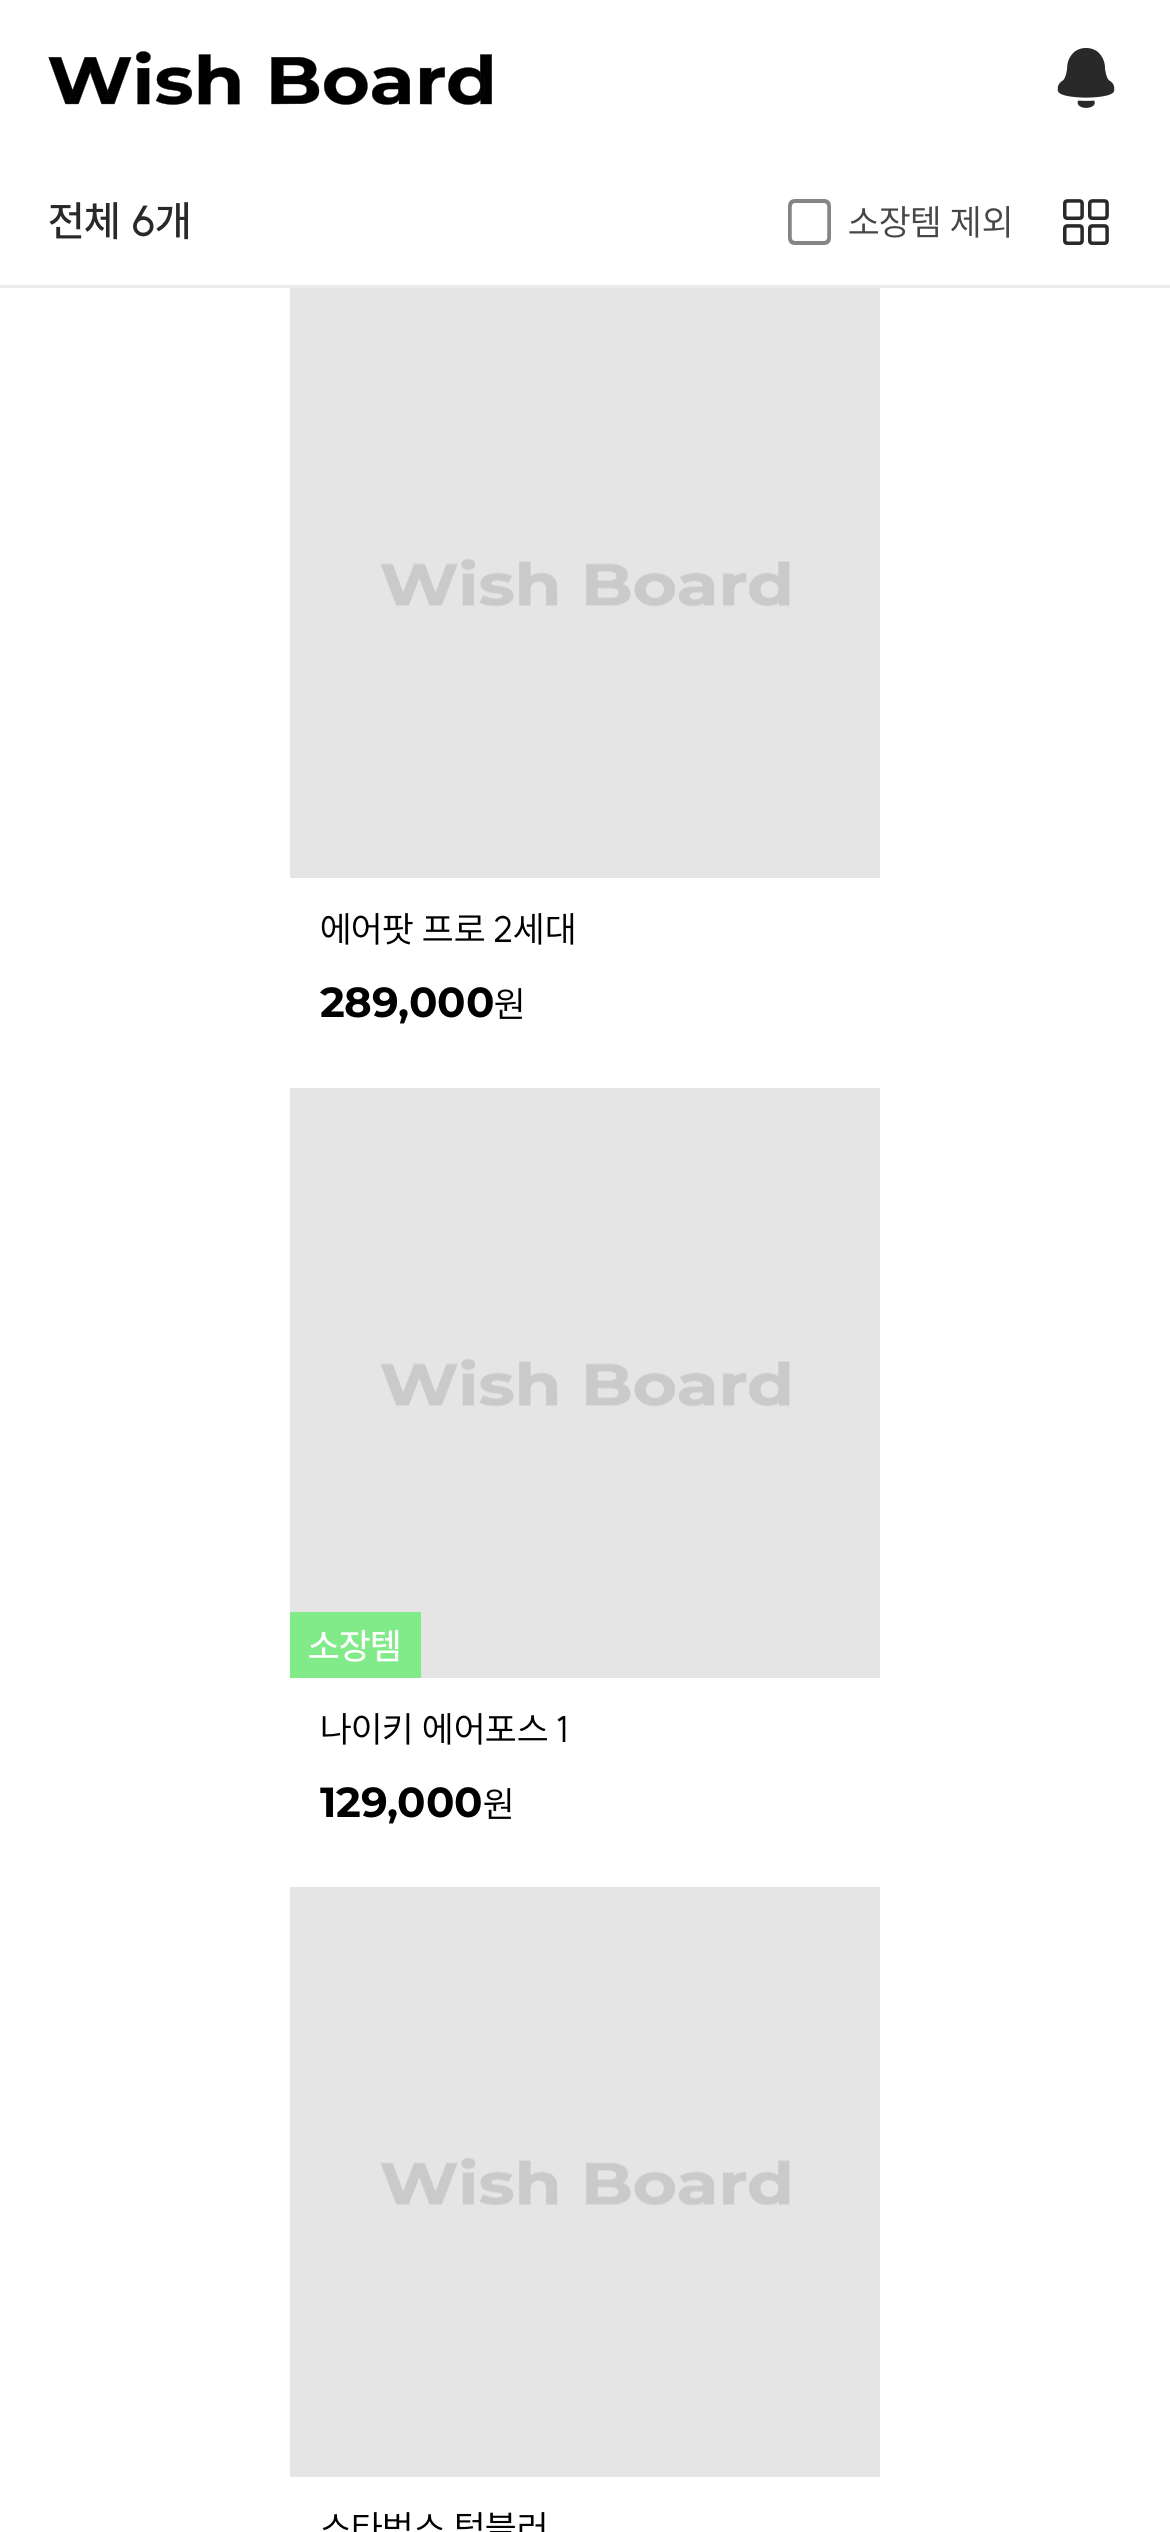
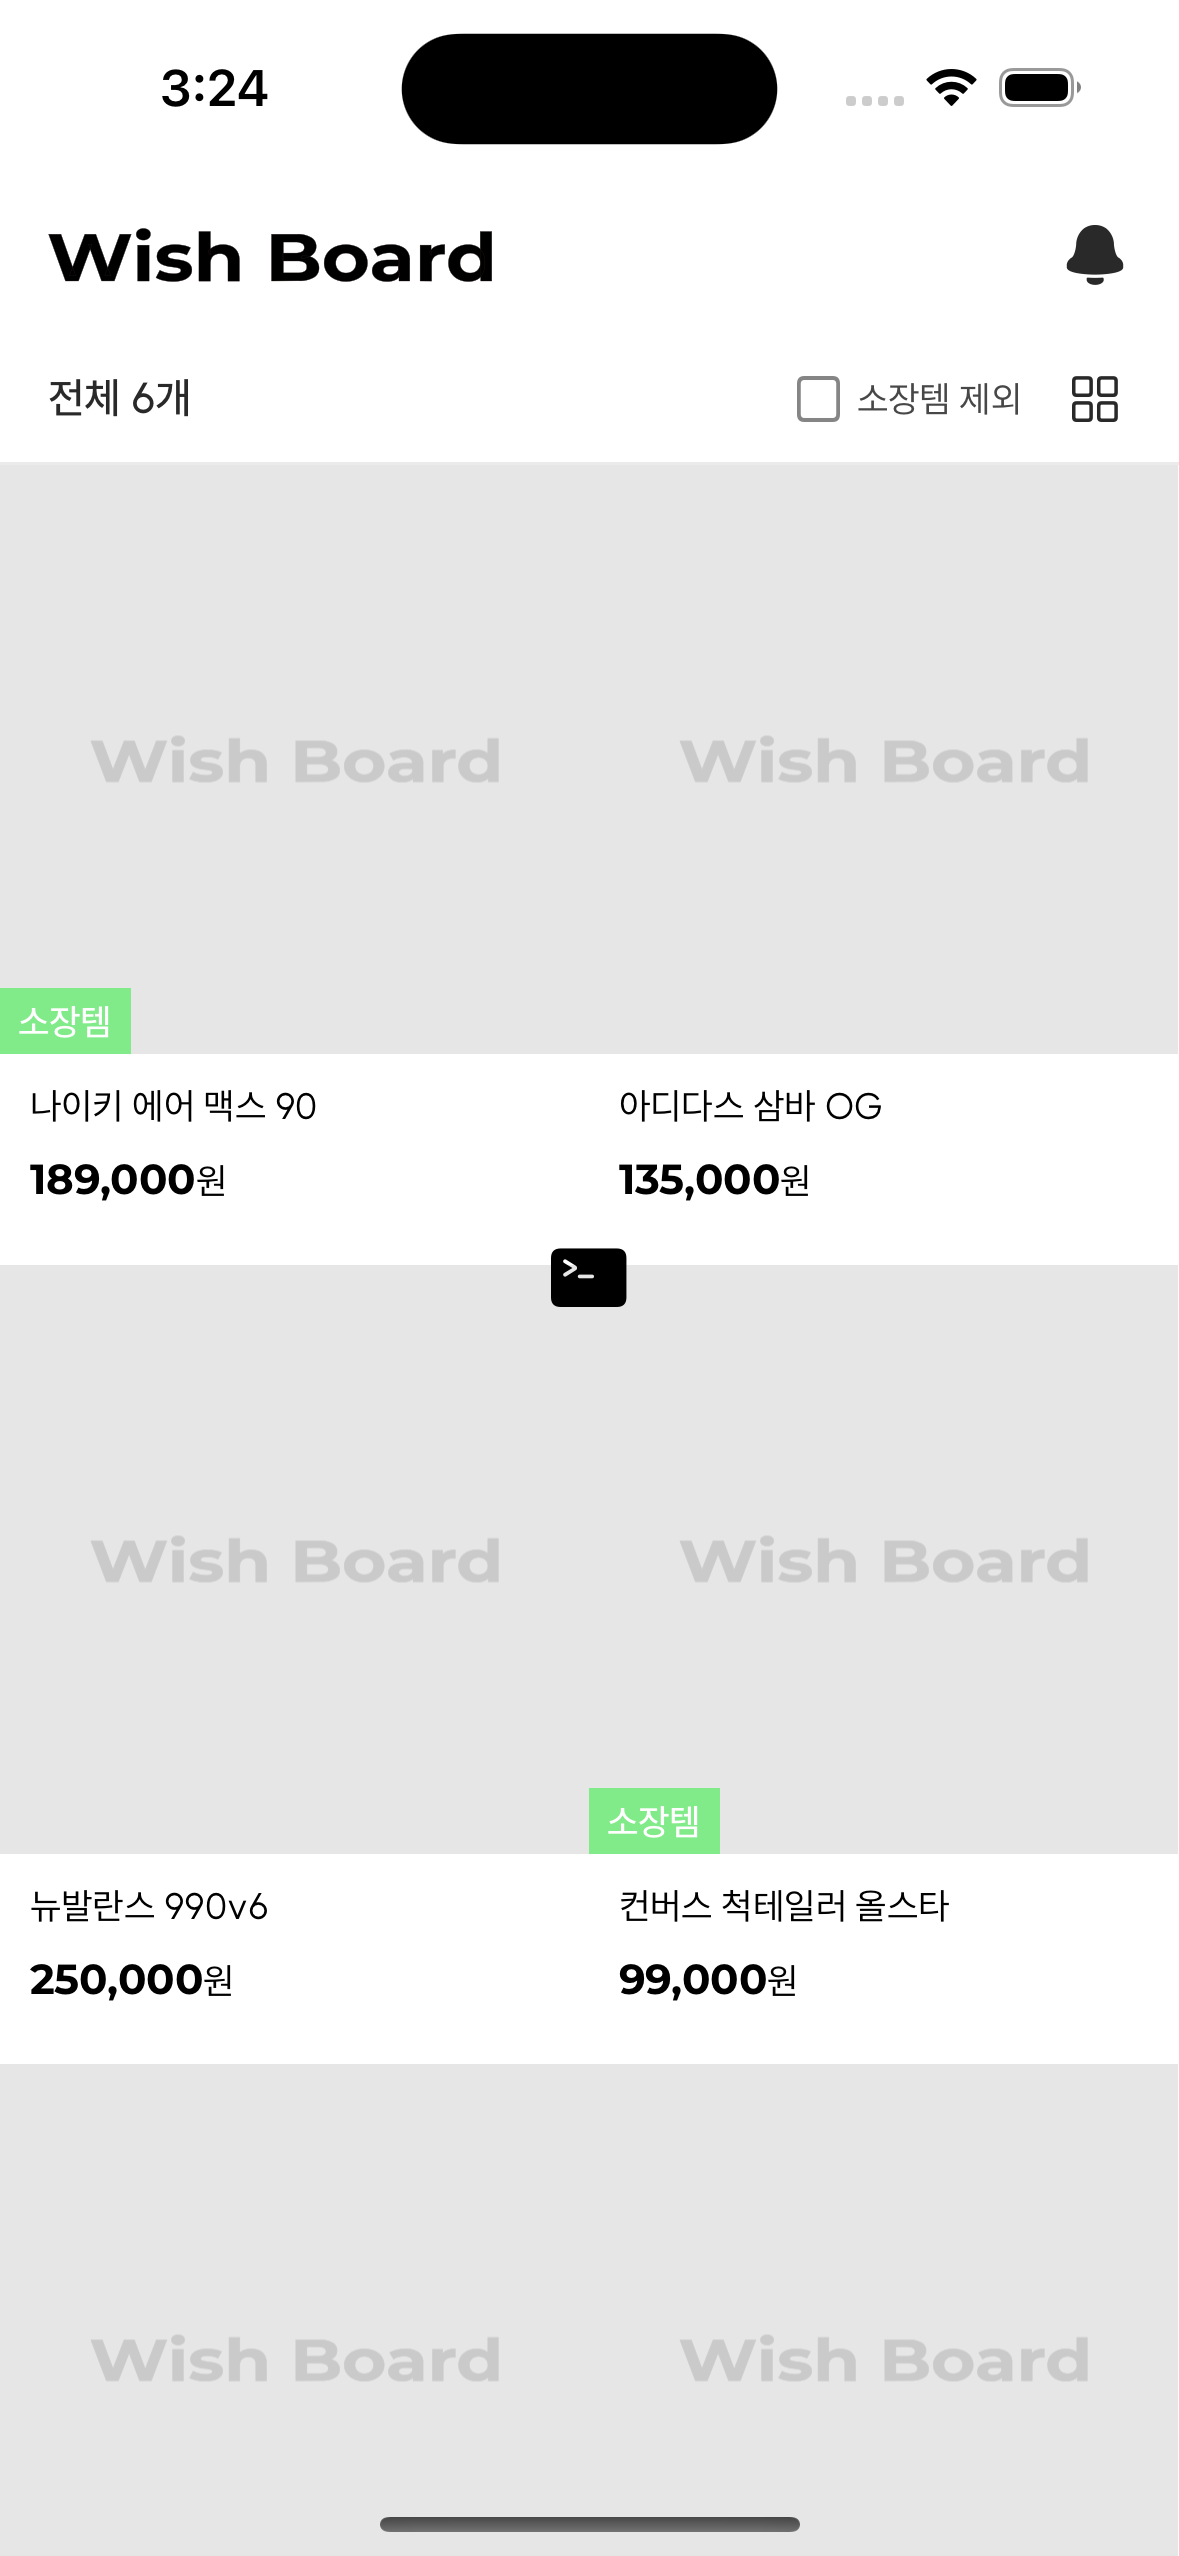
[fix] 홈화면 스티키헤더 레이아웃 버그 수정 (#17)
- 기존 상단바(로고/알람)를 CollectionView Section 0 헤더로 이동하여 스크롤뷰와 함께 자연스럽게 올라가도록 수정
- 스티키헤더(전체 N개/소장템 제외/그리드)를 Section 1 헤더로 pinToVisibleBounds = true 설정하여 스크롤 시 화면 최상단에 고정되도록 수정
- 기존 상단바 transform 애니메이션 방식에서 오버레이 없이 스크롤과 함께 움직이는 방식으로 변경

diff --git a/WishboardV2/View/Item/HomeView.swift b/WishboardV2/View/Item/HomeView.swift
@@ -15,7 +15,6 @@ import Core
 final class HomeView: UIView {
 
     // MARK: - Views
-    public let toolbar = HomeToolBar()
     public let collectionView: UICollectionView
     private let emptyLabel = UILabel().then {
         $0.text = "앗, 아이템이 없어요!\n갖고 싶은 아이템을 등록해 보세요!"
@@ -36,20 +35,14 @@ final class HomeView: UIView {
     public var refreshAction: (() -> Void)?
     private weak var stickyHeader: HomeStickyHeaderView?
 
+    /// 툴바 델리게이트 - 스크롤 헤더에 전달됩니다
+    weak var toolbarDelegate: HomeToolBarDelegate?
+
     // MARK: - Initializers
     override init(frame: CGRect) {
-        let layout = UICollectionViewFlowLayout()
-        let cellWidth = UIScreen.main.bounds.width / 2
-        layout.itemSize = CGSize(width: cellWidth, height: cellWidth + 70)
-        layout.minimumInteritemSpacing = 0
-        layout.minimumLineSpacing = 0
-        layout.headerReferenceSize = CGSize(width: UIScreen.main.bounds.width, height: HomeView.stickyHeaderHeight)
-        layout.sectionHeadersPinToVisibleBounds = true
-
-        collectionView = UICollectionView(frame: .zero, collectionViewLayout: layout)
+        collectionView = UICollectionView(frame: .zero, collectionViewLayout: HomeView.makeLayout())
         collectionView.backgroundColor = .white
         collectionView.showsVerticalScrollIndicator = false
-        collectionView.contentInset = UIEdgeInsets(top: HomeView.toolbarHeight, left: 0, bottom: 0, right: 0)
         collectionView.contentInsetAdjustmentBehavior = .never
 
         super.init(frame: frame)
@@ -63,21 +56,89 @@ final class HomeView: UIView {
         fatalError("init(coder:) has not been implemented")
     }
 
+    // MARK: - Layout Factory
+
+    private static func makeLayout() -> UICollectionViewCompositionalLayout {
+        UICollectionViewCompositionalLayout { sectionIndex, _ in
+            if sectionIndex == 0 {
+                // Section 0: 툴바 헤더만 있는 섹션 (스크롤과 함께 사라짐)
+                let dummyItem = NSCollectionLayoutItem(
+                    layoutSize: NSCollectionLayoutSize(widthDimension: .fractionalWidth(1.0), heightDimension: .absolute(0))
+                )
+                let dummyGroup = NSCollectionLayoutGroup.horizontal(
+                    layoutSize: NSCollectionLayoutSize(widthDimension: .fractionalWidth(1.0), heightDimension: .absolute(0)),
+                    subitems: [dummyItem]
+                )
+                let section = NSCollectionLayoutSection(group: dummyGroup)
+
+                let toolbarHeader = NSCollectionLayoutBoundarySupplementaryItem(
+                    layoutSize: NSCollectionLayoutSize(
+                        widthDimension: .fractionalWidth(1.0),
+                        heightDimension: .absolute(HomeView.toolbarHeight)
+                    ),
+                    elementKind: UICollectionView.elementKindSectionHeader,
+                    alignment: .top
+                )
+                toolbarHeader.pinToVisibleBounds = false
+                section.boundarySupplementaryItems = [toolbarHeader]
+                return section
+            } else {
+                // Section 1: 스티키헤더 + 2열 그리드 아이템
+                let screenWidth = UIScreen.main.bounds.width
+                let cellHeight = screenWidth / 2 + 70
+                let item = NSCollectionLayoutItem(
+                    layoutSize: NSCollectionLayoutSize(
+                        widthDimension: .fractionalWidth(0.5),
+                        heightDimension: .absolute(cellHeight)
+                    )
+                )
+                let group = NSCollectionLayoutGroup.horizontal(
+                    layoutSize: NSCollectionLayoutSize(
+                        widthDimension: .fractionalWidth(1.0),
+                        heightDimension: .absolute(cellHeight)
+                    ),
+                    repeatingSubitem: item,
+                    count: 2
+                )
+                let section = NSCollectionLayoutSection(group: group)
+
+                let stickyHeader = NSCollectionLayoutBoundarySupplementaryItem(
+                    layoutSize: NSCollectionLayoutSize(
+                        widthDimension: .fractionalWidth(1.0),
+                        heightDimension: .absolute(HomeView.stickyHeaderHeight)
+                    ),
+                    elementKind: UICollectionView.elementKindSectionHeader,
+                    alignment: .top
+                )
+                stickyHeader.pinToVisibleBounds = true
+                section.boundarySupplementaryItems = [stickyHeader]
+                return section
+            }
+        }
+    }
+
     // MARK: - Setup
     private func setupViews() {
         addSubview(collectionView)
         addSubview(emptyLabel)
-        addSubview(toolbar)
 
-        collectionView.register(WishItemCollectionViewCell.self, forCellWithReuseIdentifier: WishItemCollectionViewCell.reuseIdentifier)
-        collectionView.register(HomeStickyHeaderView.self,
-                                forSupplementaryViewOfKind: UICollectionView.elementKindSectionHeader,
-                                withReuseIdentifier: HomeStickyHeaderView.reuseIdentifier)
+        collectionView.register(
+            WishItemCollectionViewCell.self,
+            forCellWithReuseIdentifier: WishItemCollectionViewCell.reuseIdentifier
+        )
+        collectionView.register(
+            HomeToolBarHeaderView.self,
+            forSupplementaryViewOfKind: UICollectionView.elementKindSectionHeader,
+            withReuseIdentifier: HomeToolBarHeaderView.reuseIdentifier
+        )
+        collectionView.register(
+            HomeStickyHeaderView.self,
+            forSupplementaryViewOfKind: UICollectionView.elementKindSectionHeader,
+            withReuseIdentifier: HomeStickyHeaderView.reuseIdentifier
+        )
     }
 
     private func setupConstraints() {
-        toolbar.configure()
-
         collectionView.snp.makeConstraints { make in
             make.edges.equalToSuperview()
         }
@@ -127,12 +188,21 @@ final class HomeView: UIView {
 }
 
 extension HomeView: UICollectionViewDataSource, UICollectionViewDelegate {
+
+    func numberOfSections(in collectionView: UICollectionView) -> Int {
+        return 2
+    }
+
     func collectionView(_ collectionView: UICollectionView, numberOfItemsInSection section: Int) -> Int {
-        return viewModel?.displayedItems.count ?? 0
+        return section == 1 ? (viewModel?.displayedItems.count ?? 0) : 0
     }
 
     func collectionView(_ collectionView: UICollectionView, cellForItemAt indexPath: IndexPath) -> UICollectionViewCell {
-        guard let cell = collectionView.dequeueReusableCell(withReuseIdentifier: WishItemCollectionViewCell.reuseIdentifier, for: indexPath) as? WishItemCollectionViewCell else {
+        guard indexPath.section == 1,
+              let cell = collectionView.dequeueReusableCell(
+                  withReuseIdentifier: WishItemCollectionViewCell.reuseIdentifier,
+                  for: indexPath
+              ) as? WishItemCollectionViewCell else {
             return UICollectionViewCell()
         }
 
@@ -145,25 +215,41 @@ extension HomeView: UICollectionViewDataSource, UICollectionViewDelegate {
     func collectionView(_ collectionView: UICollectionView,
                         viewForSupplementaryElementOfKind kind: String,
                         at indexPath: IndexPath) -> UICollectionReusableView {
-        guard kind == UICollectionView.elementKindSectionHeader,
-              let header = collectionView.dequeueReusableSupplementaryView(
-                  ofKind: kind,
-                  withReuseIdentifier: HomeStickyHeaderView.reuseIdentifier,
-                  for: indexPath) as? HomeStickyHeaderView else {
+        guard kind == UICollectionView.elementKindSectionHeader else {
             return UICollectionReusableView()
         }
 
-        header.delegate = self
-        stickyHeader = header
+        if indexPath.section == 0 {
+            guard let header = collectionView.dequeueReusableSupplementaryView(
+                ofKind: kind,
+                withReuseIdentifier: HomeToolBarHeaderView.reuseIdentifier,
+                for: indexPath
+            ) as? HomeToolBarHeaderView else {
+                return UICollectionReusableView()
+            }
+            header.toolBar.delegate = toolbarDelegate
+            return header
+        } else {
+            guard let header = collectionView.dequeueReusableSupplementaryView(
+                ofKind: kind,
+                withReuseIdentifier: HomeStickyHeaderView.reuseIdentifier,
+                for: indexPath
+            ) as? HomeStickyHeaderView else {
+                return UICollectionReusableView()
+            }
 
-        if let vm = viewModel {
-            header.configure(
-                totalCount: vm.totalElements,
-                hasOwnedItems: vm.hasOwnedItems,
-                isExcludingOwned: vm.isExcludingOwned
-            )
+            header.delegate = self
+            stickyHeader = header
+
+            if let vm = viewModel {
+                header.configure(
+                    totalCount: vm.totalElements,
+                    hasOwnedItems: vm.hasOwnedItems,
+                    isExcludingOwned: vm.isExcludingOwned
+                )
+            }
+            return header
         }
-        return header
     }
 }
 

diff --git a/WishboardV2/ViewController/Item/HomeViewController.swift b/WishboardV2/ViewController/Item/HomeViewController.swift
@@ -64,7 +64,7 @@ final class HomeViewController: UIViewController, ItemDetailDelegate {
 
     private func setupDelegates() {
         homeView.collectionView.delegate = self
-        homeView.toolbar.delegate = self
+        homeView.toolbarDelegate = self
     }
 
     private func setupBindings() {
@@ -78,10 +78,7 @@ final class HomeViewController: UIViewController, ItemDetailDelegate {
     }
 
     func scrollToTop() {
-        homeView.collectionView.setContentOffset(
-            CGPoint(x: 0, y: -homeView.collectionView.contentInset.top),
-            animated: true
-        )
+        homeView.collectionView.setContentOffset(CGPoint(x: 0, y: 0), animated: true)
     }
 
     private func setupBackgroundDimView() {
@@ -115,6 +112,7 @@ final class HomeViewController: UIViewController, ItemDetailDelegate {
 
 extension HomeViewController: UICollectionViewDelegate {
     func collectionView(_ collectionView: UICollectionView, didSelectItemAt indexPath: IndexPath) {
+        guard indexPath.section == 1 else { return }
         let item = viewModel.displayedItems[indexPath.row]
         if let itemIdx = item.id {
             UIDevice.vibrate()
@@ -146,16 +144,11 @@ extension HomeViewController: UICollectionViewDelegate {
     func collectionView(_ collectionView: UICollectionView,
                         willDisplay cell: UICollectionViewCell,
                         forItemAt indexPath: IndexPath) {
+        guard indexPath.section == 1 else { return }
         viewModel.loadNextIfNeeded(currentIndex: indexPath.item)
     }
 
-    func scrollViewDidScroll(_ scrollView: UIScrollView) {
-        let toolbarHeight = HomeView.toolbarHeight
-        let offsetY = scrollView.contentOffset.y
-        let scrolled = offsetY + toolbarHeight
-        let clampedScroll = max(0, min(toolbarHeight, scrolled))
-        homeView.toolbar.transform = CGAffineTransform(translationX: 0, y: -clampedScroll)
-    }
+
 }
 
 extension HomeViewController: HomeToolBarDelegate {

diff --git a/WishboardV2/SceneDelegate.swift b/WishboardV2/SceneDelegate.swift
@@ -30,10 +30,11 @@ class SceneDelegate: UIResponder, UIWindowSceneDelegate {
         NotificationCenter.default.addObserver(self, selector: #selector(signOutAndShowToast), name: .SignOutAndShowToast, object: nil)
         
         // MARK: Navigation controller
-        let splashVC = SplashViewController()
         guard let windowScene = (scene as? UIWindowScene) else { return }
         window = UIWindow(frame: windowScene.coordinateSpace.bounds)
         window?.windowScene = windowScene
+
+        let splashVC = SplashViewController()
         window?.rootViewController = splashVC
         window?.makeKeyAndVisible()
         

diff --git a/WishboardV2/UIComponents/ToolBars/HomeToolBar.swift b/WishboardV2/UIComponents/ToolBars/HomeToolBar.swift
@@ -81,3 +81,21 @@ final public class HomeToolBar: UIView {
         }
     }
 }
+
+// MARK: - HomeToolBarHeaderView
+
+final class HomeToolBarHeaderView: UICollectionReusableView {
+    static let reuseIdentifier = "HomeToolBarHeaderView"
+
+    let toolBar = HomeToolBar()
+
+    override init(frame: CGRect) {
+        super.init(frame: frame)
+        addSubview(toolBar)
+        toolBar.snp.makeConstraints { make in
+            make.edges.equalToSuperview()
+        }
+    }
+
+    required init?(coder: NSCoder) { fatalError() }
+}
